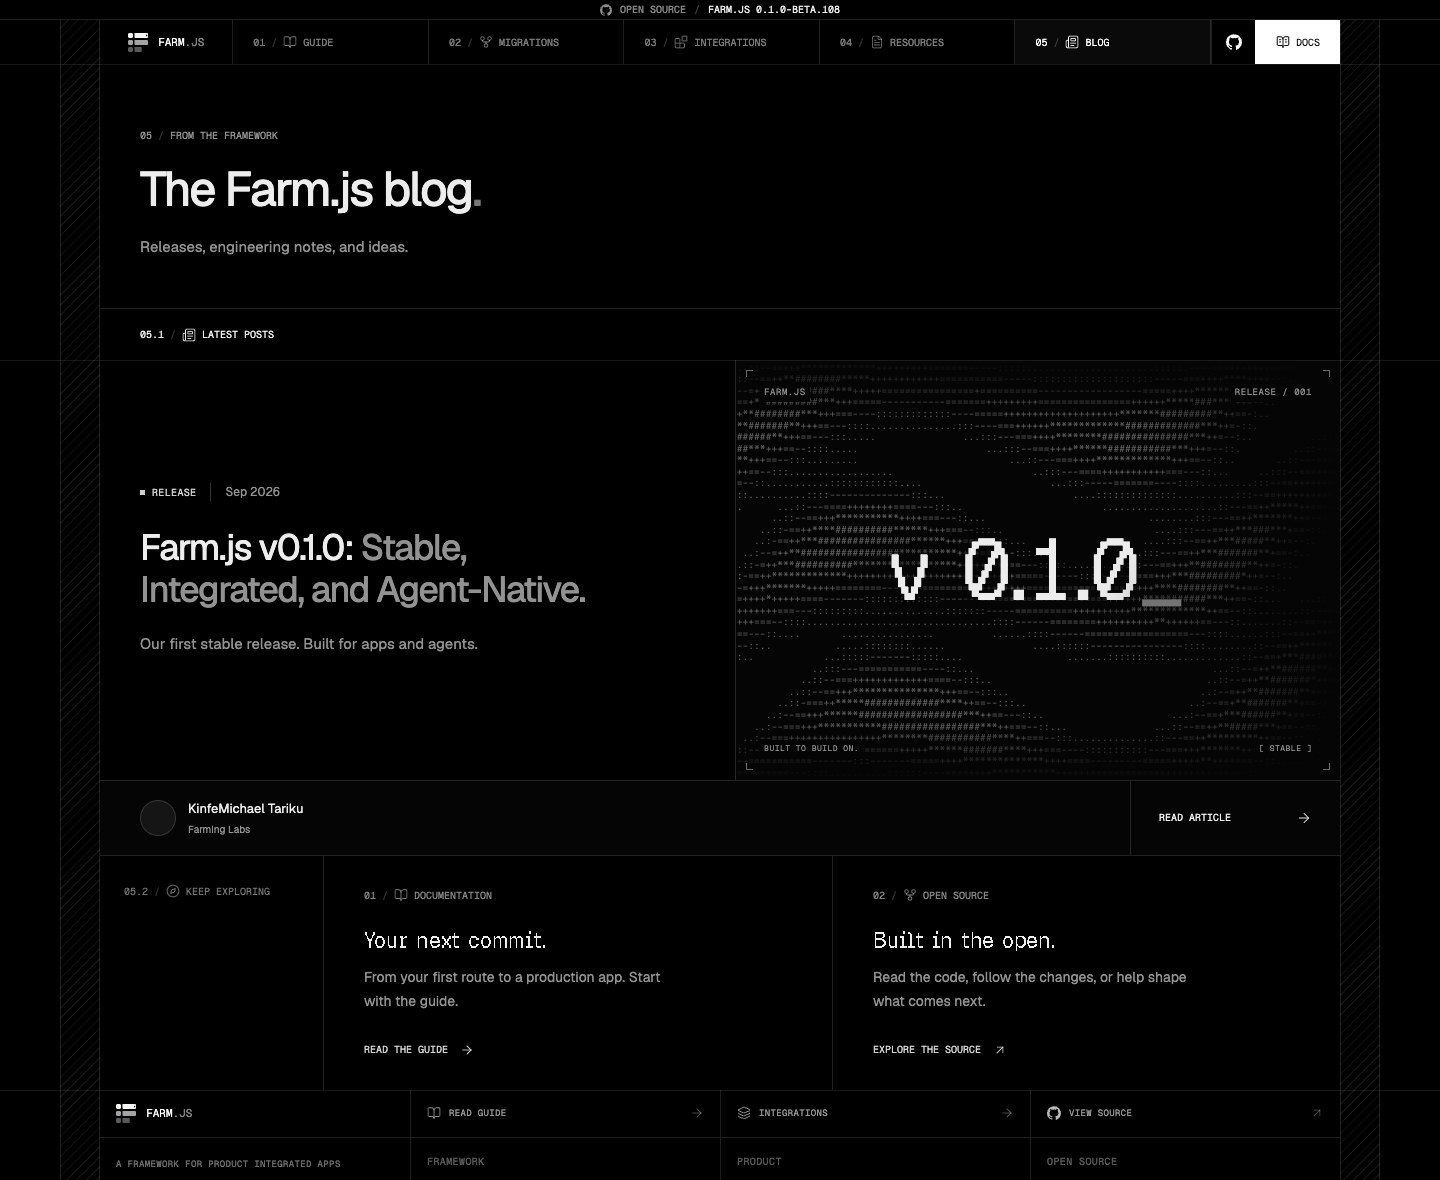
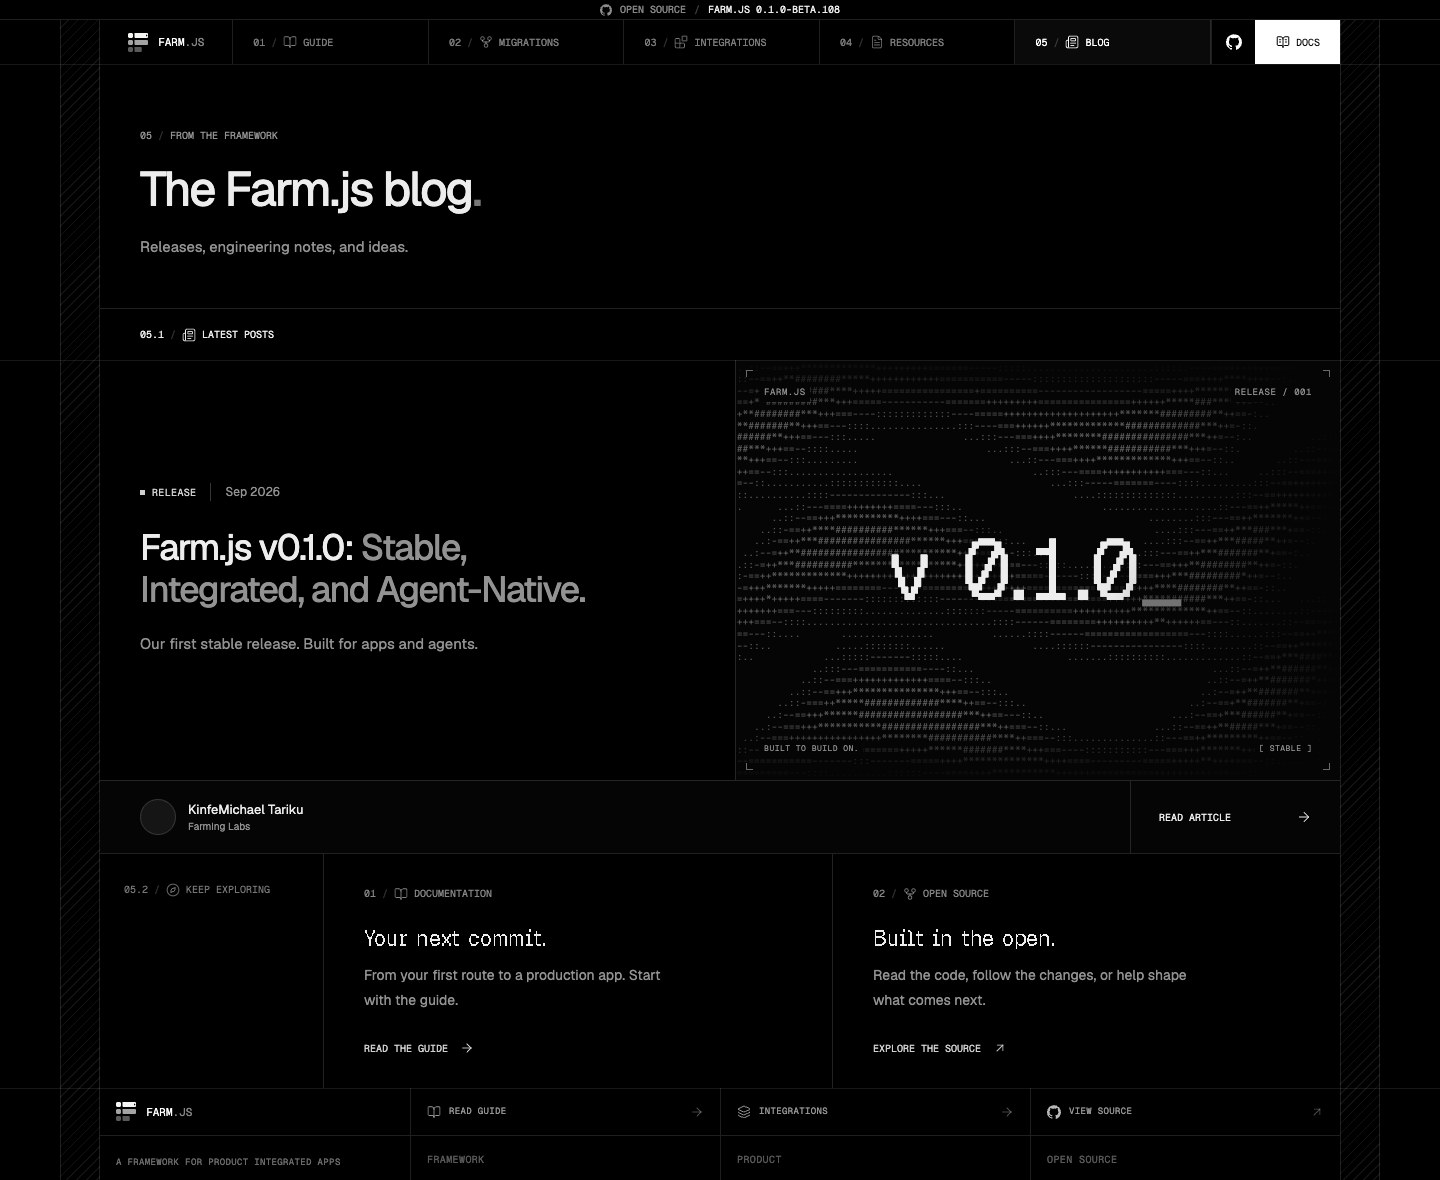
style(blog): tighten author byline spacing

diff --git a/tests/e2e-production-sites/docs.production.spec.ts b/tests/e2e-production-sites/docs.production.spec.ts
@@ -66,6 +66,7 @@ test("blog connects the index, article, contents, and Markdown mirror", async ({
     "KinfeMichael Tariku",
   );
   await expect(page.locator(".blog-featured-bottom img")).toHaveAttribute("width", "36");
+  await expect(page.locator(".blog-author small")).toHaveCSS("margin-top", "0px");
   await expect(page.locator(".blog-read-link")).toHaveText("Read article");
   await expect(page.locator(".blog-explore a")).toHaveCount(2);
   await expect(page.locator(".blog-explore a").first()).toHaveAttribute(
@@ -175,6 +176,7 @@ test("blog uses Farm.js branding, lighter reading weights, and complete launch g
   );
   for (const width of [1440, 390]) {
     await page.setViewportSize({ width, height: 1000 });
+    await expect(page.locator(".blog-author small")).toHaveCSS("margin-top", "0px");
     await expect(prose.locator("p").filter({ hasText: /^Farm\.js 0\.1 is out/ })).toHaveCSS(
       "font-weight",
       "300",

diff --git a/docs/src/app/blog/blog.css b/docs/src/app/blog/blog.css
@@ -218,7 +218,7 @@
   display: block;
   font-size: 10px;
   color: var(--blog-muted);
-  margin-top: 3px;
+  margin-top: 0;
 }
 .blog-read-link {
   display: inline-flex;
